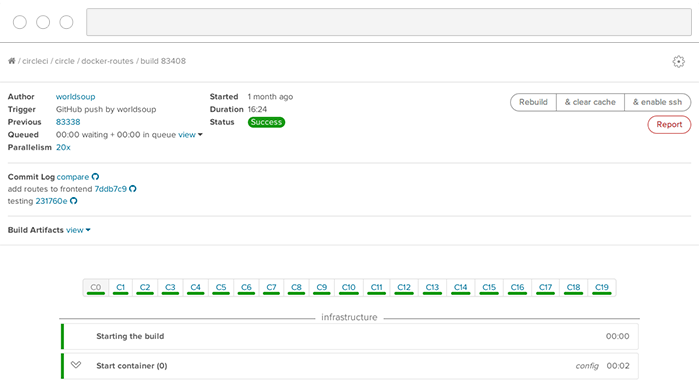
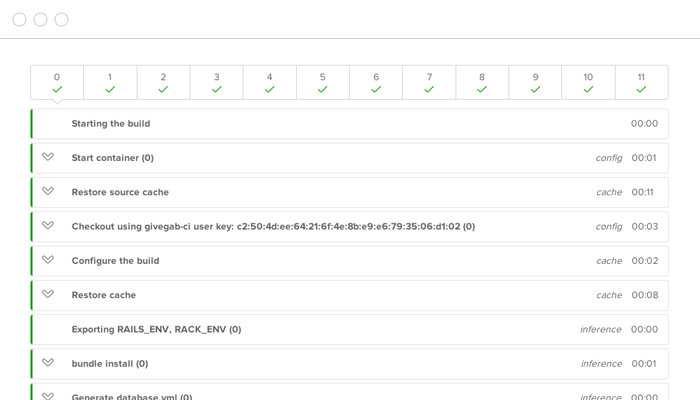
style updates for hero unit and screenshot layout

diff --git a/css/outer/languages/languages.less b/css/outer/languages/languages.less
@@ -10,7 +10,6 @@
   }
 }
 .languages.page {
-  //font-family: ProximaNova-Light;
   @em: 18px;
   @pagesize: 940px;
   font-size: @em;
@@ -47,8 +46,9 @@
     line-height: inherit; // BS RESET
   }
   .languages-head {
-    padding-top: 2.5em;
     .flexy(center, center, column);
+    position: relative;
+    padding-top: 2.5em;
     color: @white;
     //for ruby, move this to variables
     background: linear-gradient(to bottom, @rubyColor 0%, #A80D00 100%), @rubyColor;
@@ -60,24 +60,38 @@
       max-width: 940px;
     }
     .languages-screenshots {
+      width: 700px;
+      height: 400px;
       background-image: url('/assets/img/outer/languages/build-screenshot.png');
-      width: 699px;
-      height: 387px;
-
+      background-size: cover;
+      border-radius: 5px 5px 0 0;
+      box-shadow: 2px 13px 5px 3px rgba(0, 0, 0, 0.21);
     }
-
+    .hero-shadow {
+      position: absolute;
+      width: 100%;
+      height: 50px;
+      bottom: 0;
+      left: 0;
+      background-image: radial-gradient(ellipse, fade(@black, 21) 0%, fade(@black, 0) 21%);
+      background-repeat: no-repeat;
+      background-size: 300% 50px;
+      background-position: 50% 25px;
+    }
   }
   .languages-body {
+    position: relative;
+    background: @white;
     max-width: @pagesize;
-    margin: 0 auto (@pagesize / 4);
-    //for making full width backgrounds, used multiple body elements
+    margin: 0 auto;
+    padding: 3em 0;
+    // for making full width backgrounds, used multiple body elements
     &.remove-margin {
       margin-bottom: 0px
     }
   }
 
   .languages-features {
-    margin: 3em 0;
     h3 {
       margin: 2em 0;
       display: inline;
@@ -116,14 +130,16 @@
     .button {
       text-align: center;
       a {
+        display: block;
         border-radius: 4px;
         background: #2D6072;
         font-weight: bold;
         font-size: 14px;
         color: #FFFFFF;
         line-height: 17px;
-        display: inline;
         padding: 1em;
+        margin: 0 auto;
+        max-width: 15em;
         &:hover {
           background: lighten(#2D6072, 20%);
         }
@@ -139,6 +155,9 @@
     -moz-box-shadow:    inset 0px 1px 1px 0px rgba(0,0,0,0.14);
     box-shadow:         inset 0px 1px 1px 0px rgba(0,0,0,0.14);
     padding: 5em 0;
+    .languages-body {
+      background: none;
+    }
     &.arrowLeft {
       .testimonial-box:after {
         left:240px; /* controls horizontal position of arrow */
@@ -178,7 +197,7 @@
         left: 10%;
         height: 2px;
         width: 80%%;
-        background: #B8C0C2; 
+        background: #B8C0C2;
       }
     }
     .testimonial-authors {
@@ -218,7 +237,7 @@
         bottom:auto;
         border-width:0 15px 15px; /* vary these values to change the angle of the vertex */
         border-color:#fff transparent;
-      }      
+      }
       .testimonial-text {
         font-size: 15px;
         color: #414446;
@@ -243,6 +262,9 @@
     background-image: -moz-linear-gradient(-44deg, #1A4555 0%, #001F2A 100%);
     background-image: -ms-linear-gradient(-44deg, #1A4555 0%, #001F2A 100%);
     background-image: linear-gradient(-134deg, #1A4555 0%, #001F2A 100%);
+    .languages-body {
+      background: none;
+    }
     h3 {
       font-size: 26px;
       color: #FFFFFF;
